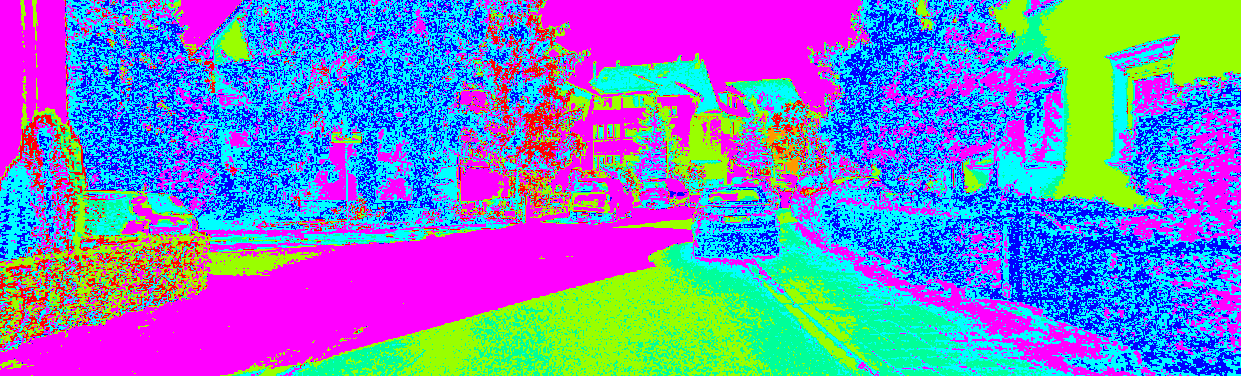
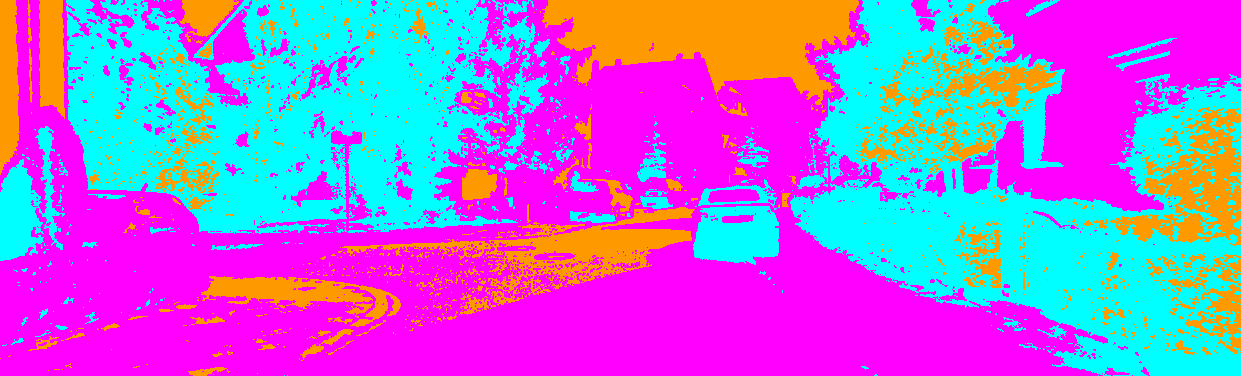
modified kmeans

diff --git a/internal/gil/kmeans/kmeans.go b/internal/gil/kmeans/kmeans.go
@@ -4,8 +4,6 @@ import (
 	"image"
 	"image/color"
 	"sort"
-	"urban-image-segmentation/internal/dataset/label"
-	"urban-image-segmentation/internal/dataset/softdataset"
 	"urban-image-segmentation/internal/gil"
 	"urban-image-segmentation/internal/gil/convert"
 	"urban-image-segmentation/internal/gil/math"
@@ -17,7 +15,7 @@ type KMeans struct {
 	height    int
 	centroids []pixel
 	count     int // count centroids
-	dataset   []softdataset.Label
+	imgLabel  image.Image
 }
 
 type pixel struct {
@@ -32,24 +30,28 @@ type dist struct {
 	dist  float64
 }
 
-func NewKMeans(img image.Image, count int, dataset []softdataset.Label) *KMeans {
-	pixels := imgToPixel(img)
+func NewKMeans(img image.Image, count int, imgLabel image.Image) *KMeans {
+	pixels := imgToPixel(convert.Grayscale(img))
 
 	k := new(KMeans)
 	k.width = img.Bounds().Max.X
 	k.height = img.Bounds().Max.Y
 	k.centroids = genCentroid(pixels, count)
-	k.dataset = dataset
+	k.imgLabel = imgLabel
 	k.count = count
 	k.pixels = pixels
 
 	return k
 }
 
-func (k *KMeans) Predict() (image.Image, error) {
+func (k *KMeans) Predict(isDraw bool) (image.Image, error) {
 	for i := 0; i < 32; i++ {
 		k.evaluateCentroids()
 		k.newCentroids()
+	}
+
+	if isDraw {
+		return k.imageColor(), nil
 	}
 	return k.image(), nil
 }
@@ -152,8 +154,6 @@ func (k *KMeans) avgDistance() []color.RGBA {
 func (k *KMeans) image() image.Image {
 	img := gil.NewImage(k.width, k.height)
 
-	k.centroidsPredict()
-
 	for _, p := range k.pixels {
 		c := color.RGBA{
 			R: k.centroids[p.centroid].RGBA.R,
@@ -167,43 +167,16 @@ func (k *KMeans) image() image.Image {
 	return img
 }
 
-func (k *KMeans) centroidsPredict() {
-	const count = 8
+func (k *KMeans) imageColor() image.Image {
+	img := gil.NewImage(k.width, k.height)
 
-	for i := 0; i < k.count; i++ {
-		distance := make([]dist, 0, len(k.dataset))
-		for _, l := range k.dataset {
-			d := dist{
-				index: l.Index,
-				dist:  math.EuclideanDistance(k.centroids[i].RGBA, l.RGBA),
-			}
-
-			distance = append(distance, d)
-		}
-
-		sort.Slice(distance, func(i, j int) bool { return distance[i].dist < distance[j].dist })
-		distance = distance[:1000]
-		l := k.freqLabels(distance)
-
-		k.centroids[i].RGBA = label.Color[l]
-	}
-}
-
-func (k *KMeans) freqLabels(distance []dist) int {
-	freq := make([]int, len(label.Labels))
-
-	for _, d := range distance {
-		freq[d.index]++
+	for _, p := range k.pixels {
+		x := k.centroids[p.centroid].x
+		y := k.centroids[p.centroid].y
+		img.(*image.RGBA).Set(p.x, p.y, k.imgLabel.At(x, y))
 	}
 
-	index := 0
-	for i, v := range freq {
-		if v > freq[index] {
-			index = i
-		}
-	}
-
-	return index
+	return img
 }
 
 func imgToPixel(img image.Image) []pixel {
@@ -234,7 +207,7 @@ func genCentroid(pixels []pixel, count int) []pixel {
 	step := size / count
 
 	index := 0
-	for i := step; i < size; i += step {
+	for i := 0; index < count; i += step {
 		p := pixel{
 			x:        pixels[i].x,
 			y:        pixels[i].y,

diff --git a/cmd/kmeans/main.go b/cmd/kmeans/main.go
@@ -2,8 +2,8 @@ package main
 
 import (
 	"flag"
+	"image"
 	"os"
-	"urban-image-segmentation/internal/dataset/softdataset"
 	"urban-image-segmentation/internal/gil"
 	"urban-image-segmentation/internal/gil/kmeans"
 
@@ -11,16 +11,16 @@ import (
 )
 
 var (
-	pathOpen  = flag.String("open", "dataset/images/00_000200.png", "path to file with dataset")
-	pathSave  = flag.String("save", "save/img.png", "path to image save")
-	pathLabel = flag.String("label", "dataset/saft-dataset/labels.csv", "path to labels kmeans")
-	pathLog   = flag.String("log", "tmp/kmeans.log", "path to log file")
-	lvl       = flag.String("lvl", "Warn", "log level")
-	logPath   *os.File
-	logger    *golog.Logger
+	pathOpen       = flag.String("open", "dataset/images/00_000200.png", "path to file with dataset")
+	pathSave       = flag.String("save", "save/img.png", "path to image save")
+	pathImageLabel = flag.String("label", "", "path to image label")
+	pathLog        = flag.String("log", "tmp/kmeans.log", "path to log file")
+	centroid       = flag.Int("centroid", 16, "count centroids")
+	isDraw         = flag.Bool("draw", false, "draw segmentation image")
+	lvl            = flag.String("lvl", "Warn", "log level")
+	logPath        *os.File
+	logger         *golog.Logger
 )
-
-const centroids = 16
 
 func init() {
 	var err error
@@ -41,9 +41,16 @@ func init() {
 func main() {
 	defer logPath.Close()
 
-	s := softdataset.NewStorage(logger)
-	if err := s.Read(*pathLabel); err != nil {
-		logger.Fatalln(err)
+	var (
+		imgLabel image.Image
+		err      error
+	)
+
+	if *pathImageLabel != "" {
+		imgLabel, err = gil.OpenImage(*pathImageLabel)
+		if err != nil {
+			logger.Fatalln(err)
+		}
 	}
 
 	img, err := gil.OpenImage(*pathOpen)
@@ -51,12 +58,8 @@ func main() {
 		logger.Fatalln(err)
 	}
 
-	kmeans := kmeans.NewKMeans(img, centroids, s.Labels)
-	if _, err := kmeans.Predict(); err != nil {
-		logger.Fatalln(err)
-	}
-
-	newImg, err := kmeans.Predict()
+	kmeans := kmeans.NewKMeans(img, *centroid, imgLabel)
+	newImg, err := kmeans.Predict(*isDraw)
 	if err != nil {
 		logger.Fatalln(err)
 	}
